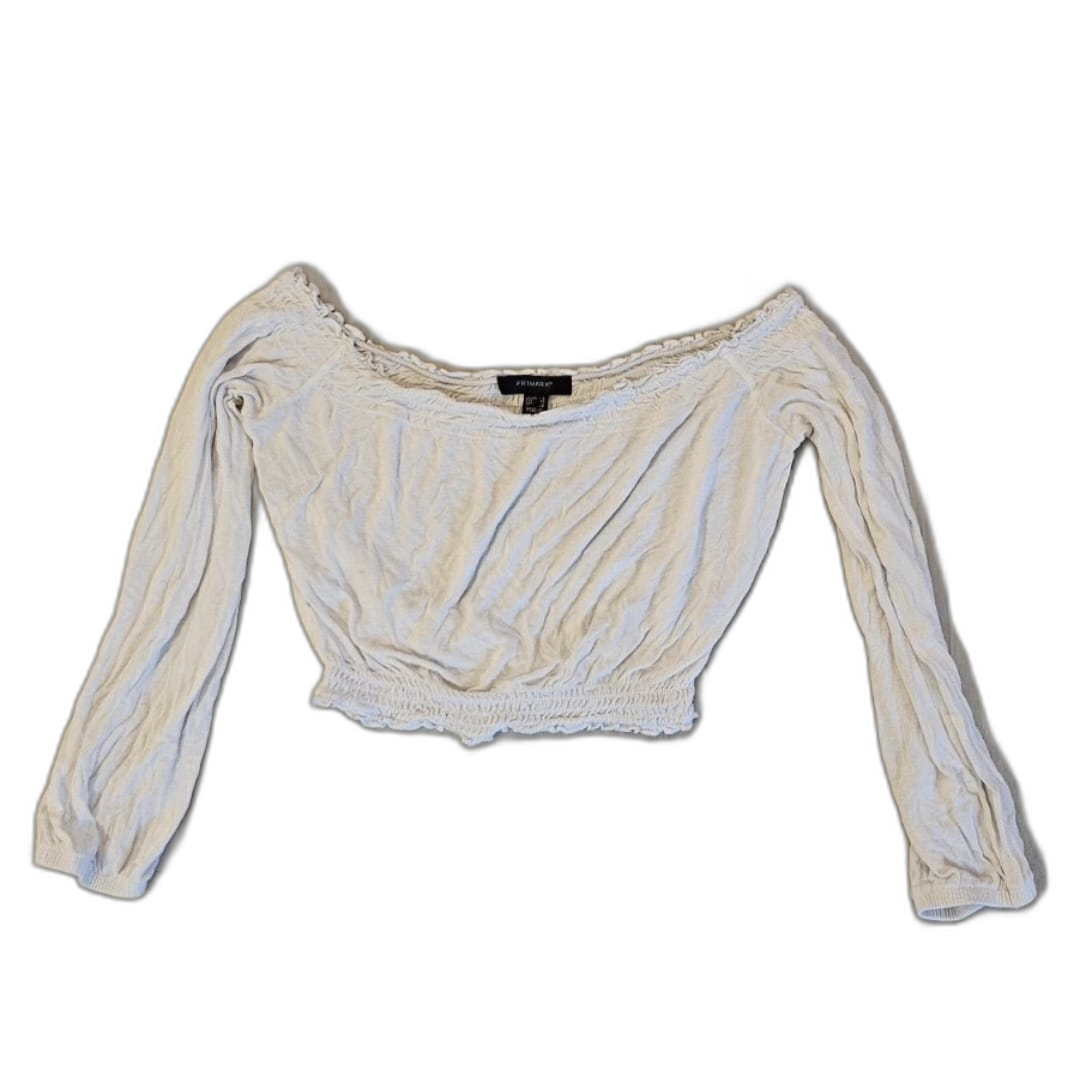
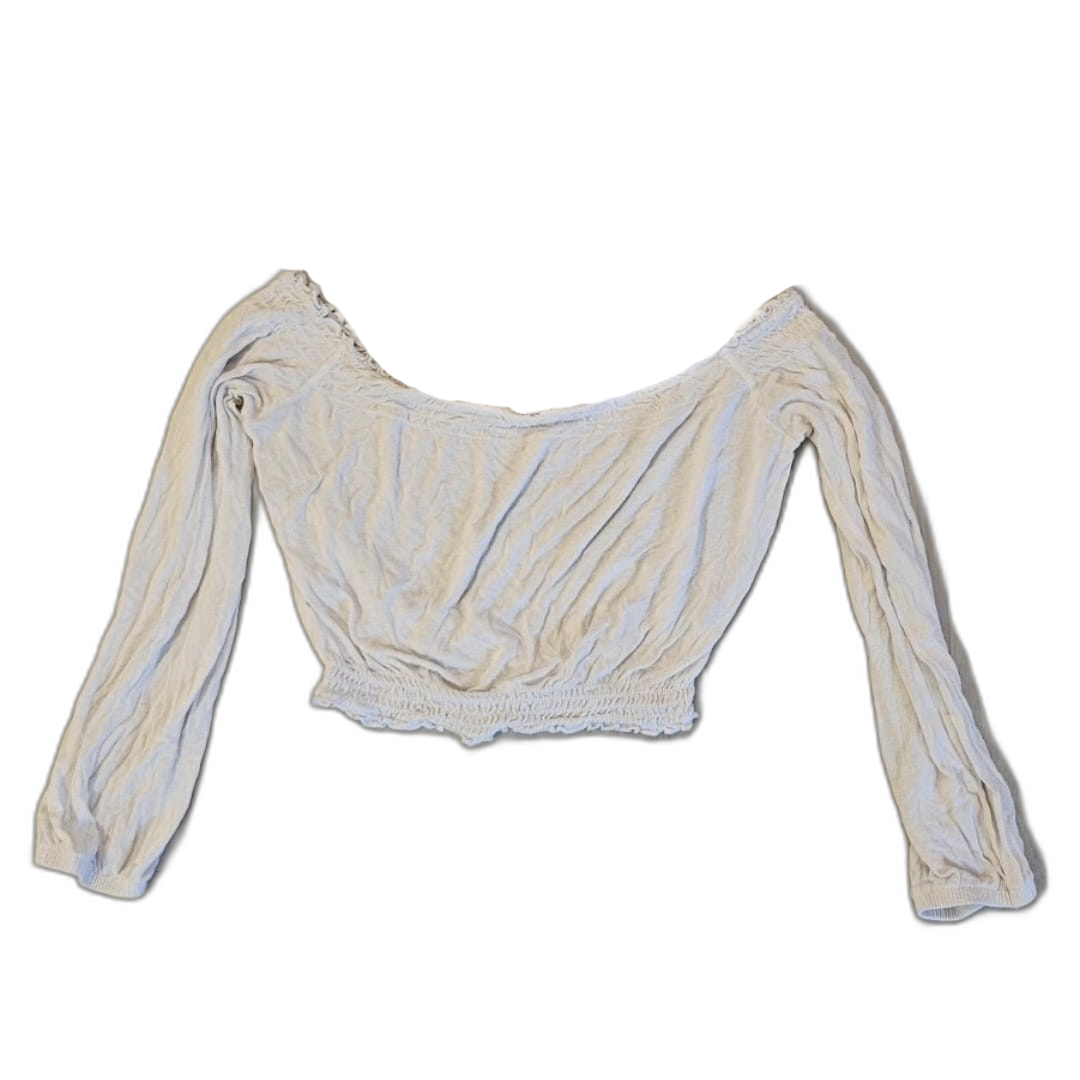
fixed anchoring on phone

Changed region(s): [[0.3361, 0.275, 0.7028, 0.3972], [0.275, 0.2444, 0.3361, 0.3056], [0.7028, 0.2444, 0.7333, 0.275]]

diff --git a/anchor_session.py b/anchor_session.py
@@ -61,9 +61,14 @@ def decode(png: bytes):
 
 
 def points_for(category: str):
-    """The category's point names, and how many of them are core."""
+    """The category's point names, and how many of them are core.
+
+    A skirt shares the bottom rig but is offered its core points alone: it has
+    no leg seam, and a knee placed on one would now build a leg segment out of
+    fabric that is a single sheet.
+    """
     names, core, _ = RIGS[RIG_BY_CATEGORY[category]]
-    return names, core
+    return (names[:core] if category == "skirt" else names), core
 
 
 def points_of(sidecar: dict):
@@ -202,7 +207,8 @@ def validate(data: str, draft: dict, category: str, width: int, height: int) -> 
     if not isinstance(sent, dict):
         raise ValueError("that didn't look like anchors - open the page again")
 
-    names, core, segment_needs = RIGS[RIG_BY_CATEGORY[category]]
+    names, core = points_for(category)
+    segment_needs = RIGS[RIG_BY_CATEGORY[category]][2]
     unknown = [name for name in sent if name not in names]
     if unknown:
         raise ValueError(f"a {category} has no {', '.join(unknown)}")
@@ -216,15 +222,16 @@ def validate(data: str, draft: dict, category: str, width: int, height: int) -> 
         if not (0 <= value[0] < width and 0 <= value[1] < height):
             raise ValueError(f"{name} landed outside the image")
 
-    # A segment whose points were switched off is one this garment can no longer
-    # wear: the rule check_calibration enforces at load time, applied here where
-    # there is still somebody to tell. A top left with no sleeve points comes out
-    # of it as ["torso"], which is what makes it sleeveless - so its bare arms
-    # get repainted, exactly as auto_anchors does for a sleeveless measurement.
-    segments = [s for s in draft["segments"] if all(p in sent for p in segment_needs[s])]
+    # Read off the taps, not off the draft. auto_anchors regularly misses a
+    # sleeve, and filtering its list meant a placed wrist could never bring the
+    # forearm back: the whole sleeve then rode on the shoulder-to-elbow bone
+    # alone and came out about twice too long.
+    segments = [s for s in segment_needs if all(p in sent for p in segment_needs[s])]
     occluders = draft["occluders"]
-    if category == "shirt" and segments == ["torso"]:
-        occluders = BASE_OCCLUDERS + ["arms"]
+    if category == "shirt":
+        # Both directions: a sleeve placed here has to clear an "arms" the draft
+        # added, or the bare arms get repainted over the sleeve just rescued.
+        occluders = BASE_OCCLUDERS + ["arms"] if segments == ["torso"] else BASE_OCCLUDERS
     return _sidecar(sent, names, segments, occluders)
 
 
